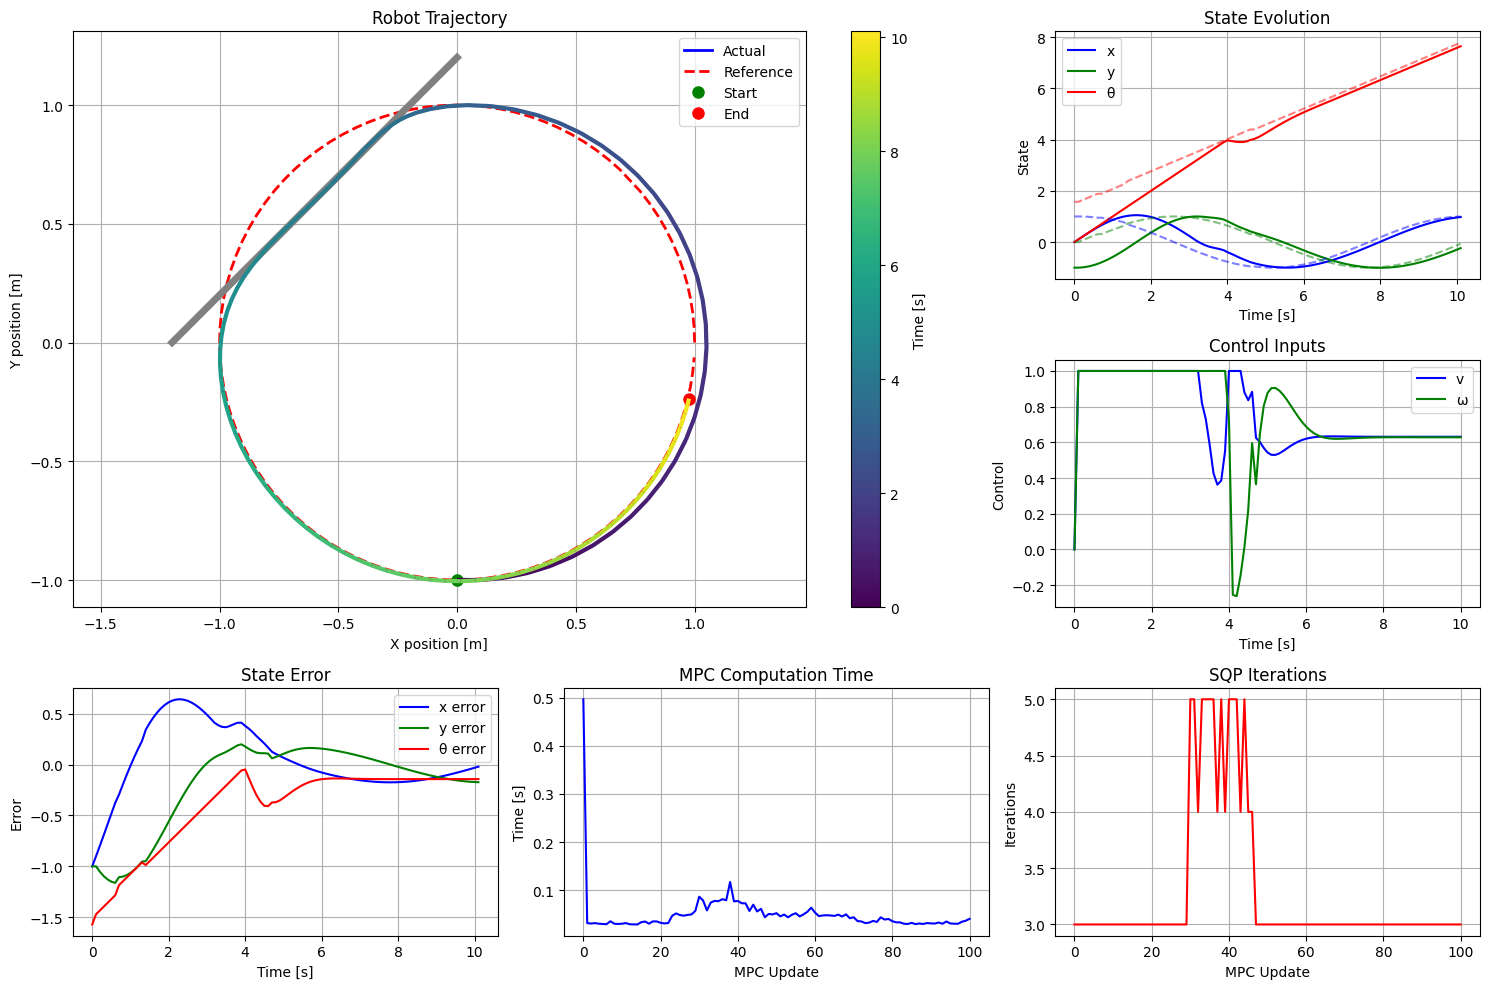
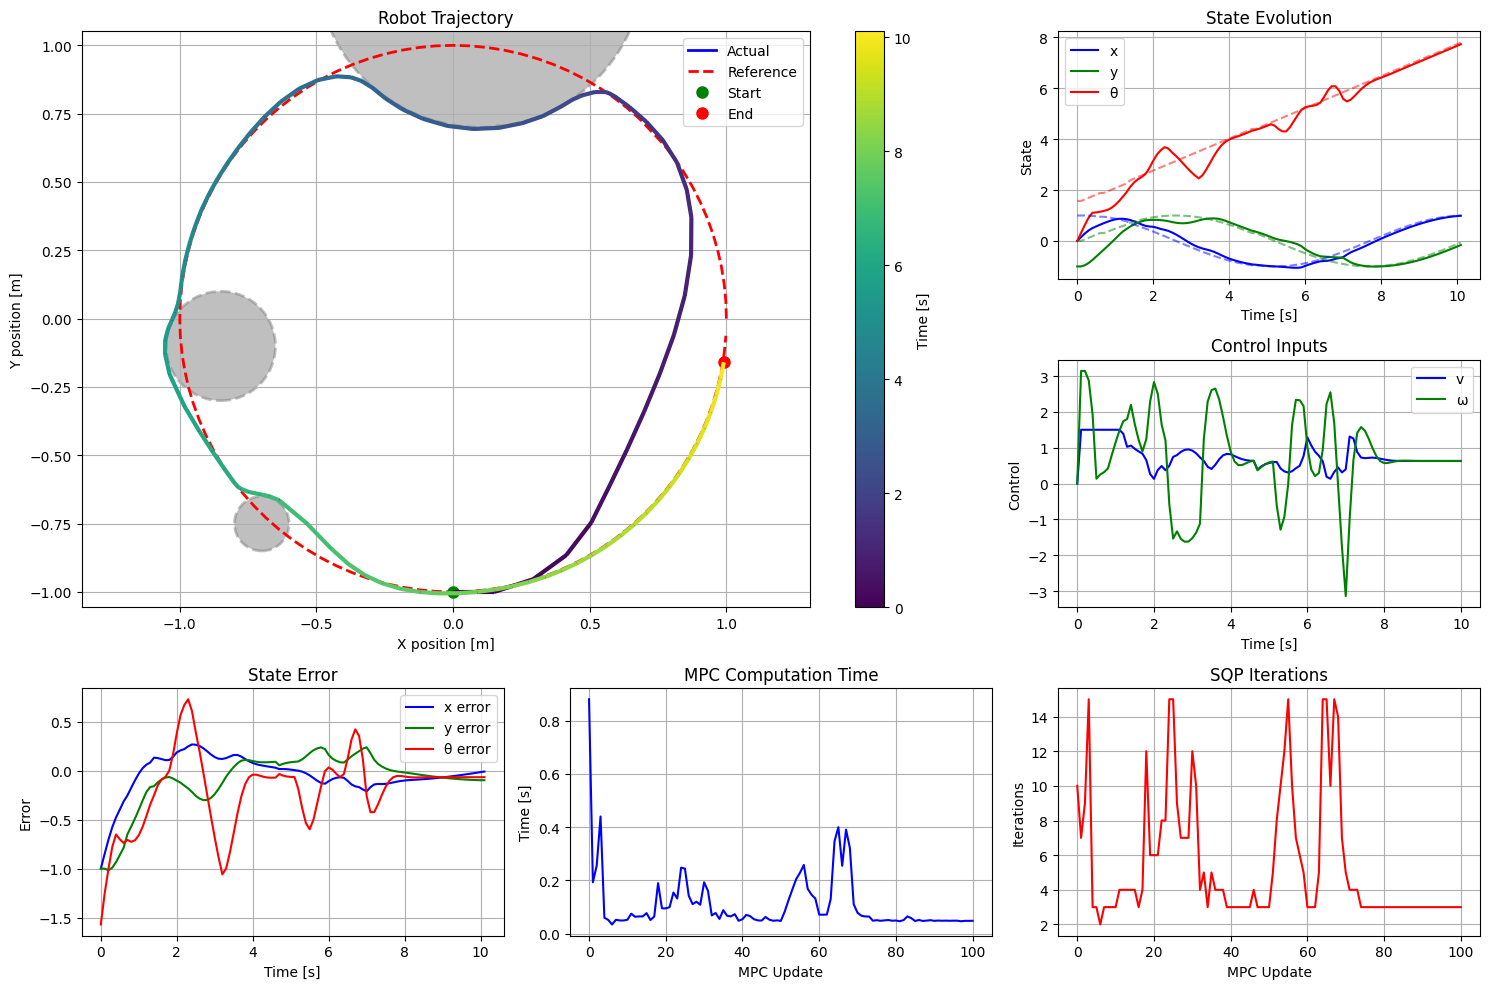
update readme

diff --git a/README.md b/README.md
@@ -16,9 +16,9 @@ There are already many repositories with similar implementations, but most of th
 ## Demo
 To run the demo, simply run the `sqp_mpccbf_tracking.ipynb` notebook in Google Colab [![Open In Colab](https://colab.research.google.com/assets/colab-badge.svg)](https://colab.research.google.com/github/shaoanlu/sqp_nmpc_cbf_cvxpy/blob/main/sqp_mpccbf_tracking.ipynb).
 
-## Key Features of the MPC-CBF Implementation
-- Trajectory tracking with real-time MPC using linearized dynamics.
-- Control Barrier Functions (CBFs) to enforce  `x - y + 1.2 >= 0` (visualized as a wall at upper left)
+## Key Features of the MPC-DCBF Implementation
+- Trajectory tracking with NMPC.
+- Discrete Control Barrier Functions (CBFs) to enforce  `h[k+1] - h[k] >= -a;pha * h[k]` as a MPC constraint
 - Sequential Quadratic Programming (SQP) for handling nonlinearities and updating the linearization at each iteration.
 - QP formulation using cvxpy with cp.Parameter for warm-starting and fast updates.
 
